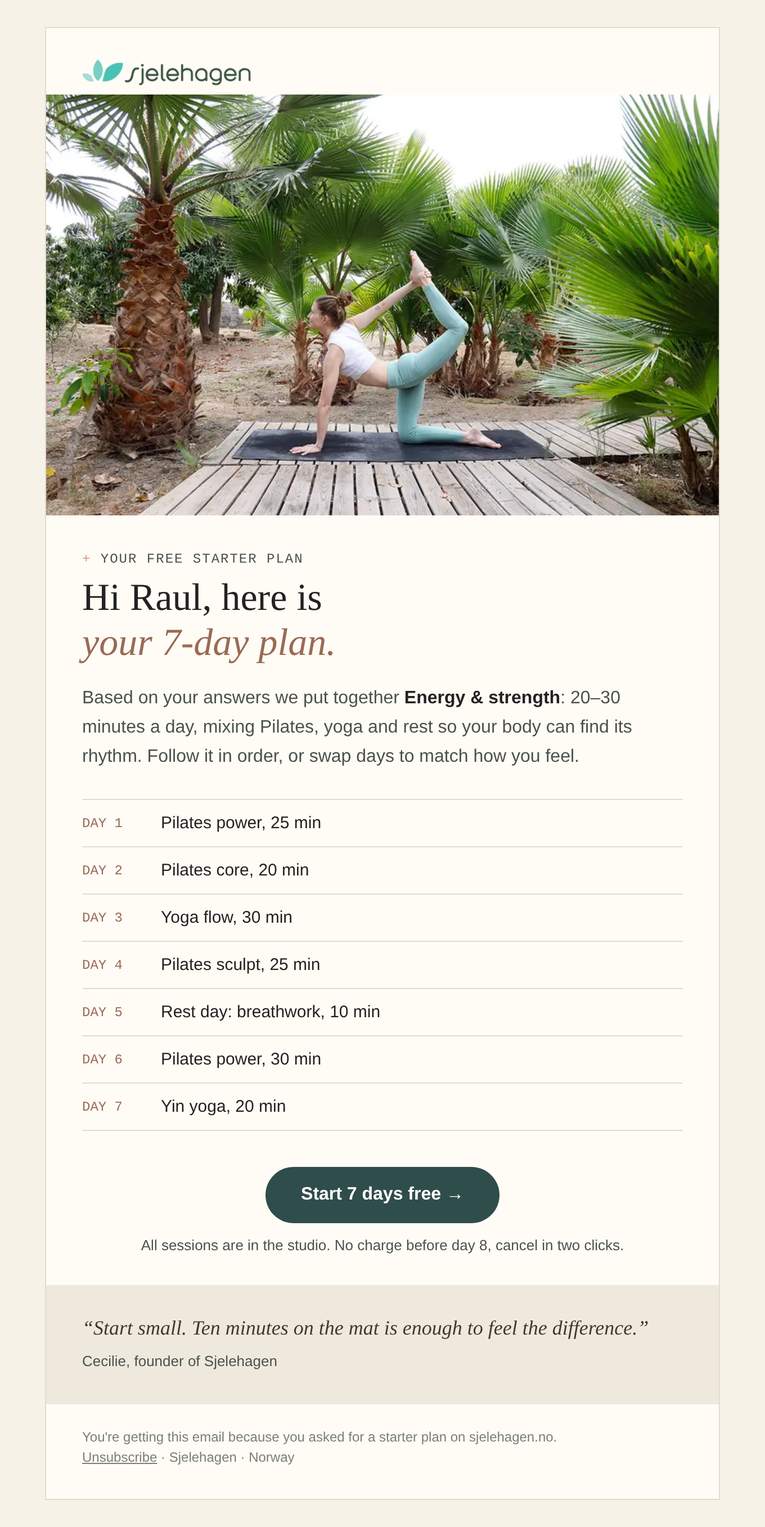
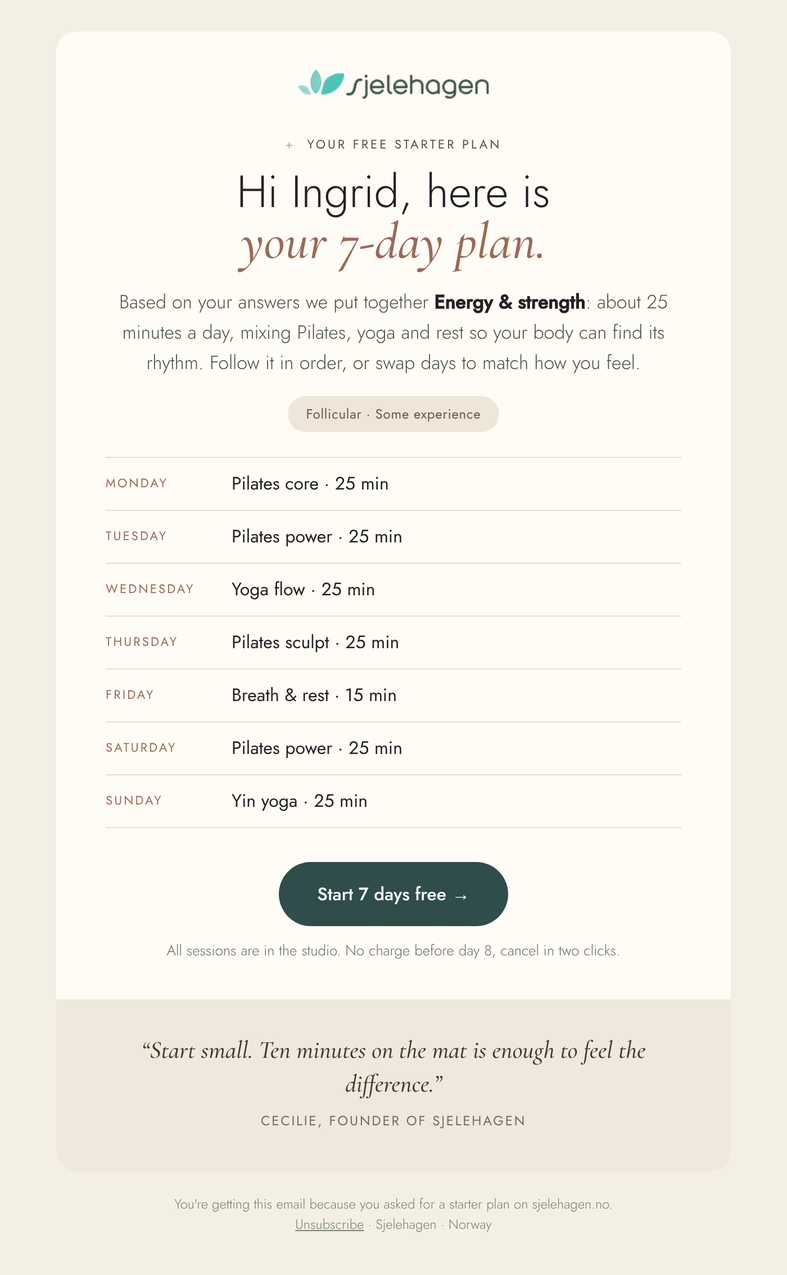
Quiz form sends to Klaviyo (new list + flow); Klaviyo-ready starter-plan email templates
Claude-Session: https://claude.ai/code/session_01FcRqLvtjMj2oLVJ5MNzpzb

Changed region(s): [[0.0618, 0.0309, 0.9574, 0.8959], [0.1235, 0.9267, 0.7412, 0.9885], [0.7412, 0.865, 0.8029, 0.8959]]

diff --git a/website/email/starter-plan.no.html b/website/email/starter-plan.no.html
@@ -1,67 +1,28 @@
 <!doctype html>
-<html lang="nb">
-<head>
-<meta charset="utf-8">
-<meta name="viewport" content="width=device-width,initial-scale=1">
-<meta name="x-apple-disable-message-reformatting">
-<title>Din 7-dagers startplan</title>
-<!--
-  Sjelehagen: startplan-e-post, norsk versjon (sendes når noen fullfører quizen).
-  Merge fields to map in your email tool (Klaviyo / Mailchimp / MailerLite / Brevo):
-    {{first_name}}   first name from the form (reserve: "der")
-    {{plan_name}}    Energi & kraft | Ro & flyt | Syklisk balanse | Myk restart
-    {{session_length}} 10–15 | 20–30 | 45+ minutes
-    {{day1}} … {{day7}}  session for each day, e.g. "Pilates core, 20 min"
-  Images must be hosted on a public URL; replace https://YOUR-SITE/ below.
--->
-</head>
-<body style="margin:0;padding:0;background:#f7f2e7;">
-<div style="display:none;max-height:0;overflow:hidden;opacity:0;">Din personlige 7-dagers plan er her. Start når du er klar.</div>
-<table role="presentation" width="100%" cellpadding="0" cellspacing="0" style="background:#f7f2e7;">
-<tr><td align="center" style="padding:24px 12px;">
-  <table role="presentation" width="600" cellpadding="0" cellspacing="0" style="width:100%;max-width:600px;background:#fffcf5;border:1px solid #e2dccd;">
-    <tr><td style="padding:28px 32px 8px;">
-      <img src="https://YOUR-SITE/website/email/img/logo.png" width="150" alt="Sjelehagen" style="display:block;width:150px;height:auto;border:0;">
-    </td></tr>
-    <tr><td style="padding:0;">
-      <img src="https://YOUR-SITE/website/email/img/hero.jpg" width="600" alt="Cecilie på matten i palmehagen" style="display:block;width:100%;height:auto;border:0;">
-    </td></tr>
-    <tr><td style="padding:32px 32px 8px;font-family:'DM Mono',Menlo,monospace;font-size:12px;letter-spacing:1px;text-transform:uppercase;color:#4b524d;">
-      <span style="color:#d9a07c;">+</span> Din gratis startplan
-    </td></tr>
-    <tr><td style="padding:0 32px;font-family:Georgia,'Times New Roman',serif;font-size:34px;line-height:40px;color:#222222;">
-      Hei {{first_name}}, her er<br><em style="color:#9a6a55;">din 7-dagers plan.</em>
-    </td></tr>
-    <tr><td style="padding:16px 32px 8px;font-family:Arial,Helvetica,sans-serif;font-size:16px;line-height:26px;color:#4b524d;">
-      Basert på svarene dine har vi satt sammen <strong style="color:#222222;">{{plan_name}}</strong>: {{session_length}} om dagen, med pilates, yoga og hvile så kroppen finner sin rytme. Følg planen i rekkefølge, eller bytt dager etter dagsformen.
-    </td></tr>
-    <tr><td style="padding:16px 32px;">
-      <table role="presentation" width="100%" cellpadding="0" cellspacing="0" style="border-top:1px solid #e2dccd;font-family:Arial,Helvetica,sans-serif;font-size:15px;color:#222222;">
-        <tr><td width="70" style="padding:12px 0;border-bottom:1px solid #e2dccd;font-family:'DM Mono',Menlo,monospace;font-size:12px;color:#9a6a55;">DAG 1</td><td style="padding:12px 0;border-bottom:1px solid #e2dccd;">{{day1}}</td></tr>
-        <tr><td style="padding:12px 0;border-bottom:1px solid #e2dccd;font-family:'DM Mono',Menlo,monospace;font-size:12px;color:#9a6a55;">DAG 2</td><td style="padding:12px 0;border-bottom:1px solid #e2dccd;">{{day2}}</td></tr>
-        <tr><td style="padding:12px 0;border-bottom:1px solid #e2dccd;font-family:'DM Mono',Menlo,monospace;font-size:12px;color:#9a6a55;">DAG 3</td><td style="padding:12px 0;border-bottom:1px solid #e2dccd;">{{day3}}</td></tr>
-        <tr><td style="padding:12px 0;border-bottom:1px solid #e2dccd;font-family:'DM Mono',Menlo,monospace;font-size:12px;color:#9a6a55;">DAG 4</td><td style="padding:12px 0;border-bottom:1px solid #e2dccd;">{{day4}}</td></tr>
-        <tr><td style="padding:12px 0;border-bottom:1px solid #e2dccd;font-family:'DM Mono',Menlo,monospace;font-size:12px;color:#9a6a55;">DAG 5</td><td style="padding:12px 0;border-bottom:1px solid #e2dccd;">{{day5}}</td></tr>
-        <tr><td style="padding:12px 0;border-bottom:1px solid #e2dccd;font-family:'DM Mono',Menlo,monospace;font-size:12px;color:#9a6a55;">DAG 6</td><td style="padding:12px 0;border-bottom:1px solid #e2dccd;">{{day6}}</td></tr>
-        <tr><td style="padding:12px 0;border-bottom:1px solid #e2dccd;font-family:'DM Mono',Menlo,monospace;font-size:12px;color:#9a6a55;">DAG 7</td><td style="padding:12px 0;border-bottom:1px solid #e2dccd;">{{day7}}</td></tr>
-      </table>
-    </td></tr>
-    <tr><td align="center" style="padding:16px 32px 8px;">
-      <a href="https://studio.sjelehagen.no/register" style="display:inline-block;background:#2f4d4a;color:#ffffff;font-family:Arial,Helvetica,sans-serif;font-size:16px;font-weight:bold;text-decoration:none;padding:16px 32px;border-radius:999px;">Start 7 dager gratis &rarr;</a>
-    </td></tr>
-    <tr><td align="center" style="padding:4px 32px 28px;font-family:Arial,Helvetica,sans-serif;font-size:13px;color:#4b524d;">
-      Alle øktene finner du i studioet. Ingen trekk før dag 8, avslutt med to klikk.
-    </td></tr>
-    <tr><td style="padding:24px 32px;background:#efe9dd;font-family:Georgia,'Times New Roman',serif;font-size:18px;line-height:28px;color:#43382a;">
-      <em>«Start i det små. Ti minutter på matten er nok til å kjenne forskjellen.»</em><br>
-      <span style="font-family:Arial,Helvetica,sans-serif;font-size:13px;color:#4b524d;">Cecilie, grunnlegger av Sjelehagen</span>
-    </td></tr>
-    <tr><td style="padding:20px 32px 28px;font-family:Arial,Helvetica,sans-serif;font-size:12px;line-height:18px;color:#7a7f78;">
-      Du får denne e-posten fordi du ba om en startplan på sjelehagen.no.<br>
-      <a href="{{unsubscribe_url}}" style="color:#7a7f78;">Meld deg av</a> · Sjelehagen · Norge
-    </td></tr>
-  </table>
-</td></tr>
+<html lang="nb"><head><meta charset="utf-8"><meta name="viewport" content="width=device-width,initial-scale=1"><meta name="x-apple-disable-message-reformatting"><title>Din 7-dagers startplan</title>
+<link href="https://fonts.googleapis.com/css2?family=Cormorant+Garamond:ital,wght@0,500;1,500&family=Jost:wght@300;400;500&display=swap" rel="stylesheet">
+<style>@media (max-width:620px){.px{padding-left:24px!important;padding-right:24px!important}.h1{font-size:34px!important;line-height:38px!important}}</style></head>
+<body style="margin:0;padding:0;background:#f4efe4;">
+<div style="display:none;max-height:0;overflow:hidden;opacity:0;">Din personlige 7-dagersplan er klar. Start når du vil.</div>
+<table role="presentation" width="100%" cellpadding="0" cellspacing="0" style="background:#f4efe4;"><tr><td align="center" style="padding:28px 12px;">
+<table role="presentation" width="600" cellpadding="0" cellspacing="0" style="width:100%;max-width:600px;background:#fffcf6;border-radius:18px;">
+<tr><td class="px" align="center" style="padding:34px 44px 6px;"><img src="https://cdn.klaviyomail.com/company/WXxMVT/images/7048cb30-c973-4501-bad0-33ca347614f9.png" width="170" alt="Sjelehagen" style="display:block;width:170px;height:auto;border:0;"></td></tr>
+<tr><td class="px" align="center" style="padding:26px 44px 0;font-family:'Jost',Helvetica,Arial,sans-serif;font-size:11px;letter-spacing:2px;text-transform:uppercase;color:#4b524d;"><span style="color:#d9a07c;">+</span>&nbsp; Din gratis startplan</td></tr>
+<tr><td class="px h1" align="center" style="padding:12px 44px 0;font-family:'Jost',Helvetica,Arial,sans-serif;font-weight:300;font-size:40px;line-height:44px;color:#222222;">Hei{% if first_name %} {{ first_name }}{% endif %}, her er<br><em style="font-family:'Cormorant Garamond',Georgia,'Times New Roman',serif;font-style:italic;font-weight:500;font-size:46px;color:#9a6a55;">din 7-dagersplan.</em></td></tr>
+<tr><td class="px" align="center" style="padding:18px 52px 6px;font-family:'Jost',Helvetica,Arial,sans-serif;font-weight:300;font-size:17px;line-height:27px;color:#4b524d;">Basert på svarene dine har vi satt sammen <strong style="color:#222222;font-weight:600;">{{ person|lookup:'sh_plan_name'|default:'planen din' }}</strong>: rundt {{ person|lookup:'sh_minutes'|default:'20' }} minutter om dagen, med pilates, yoga og ro, så kroppen finner rytmen sin. Følg den i rekkefølge, eller bytt dager etter hvordan du har det.</td></tr>
+<tr><td class="px" align="center" style="padding:10px 44px 0;"><span style="display:inline-block;background:#efe6da;border-radius:999px;padding:7px 16px;font-family:'Jost',Helvetica,Arial,sans-serif;font-size:12px;letter-spacing:.4px;color:#6d5446;">{{ person|lookup:'sh_phase'|default:'' }}{% if person|lookup:'sh_phase' %} · {% endif %}{{ person|lookup:'sh_level'|default:'' }}</span></td></tr>
+<tr><td class="px" style="padding:22px 44px 8px;"><table role="presentation" width="100%" cellpadding="0" cellspacing="0" style="border-top:1px solid #e6dfd1;">
+<tr><td width="112" valign="top" style="padding:14px 0;border-bottom:1px solid #e6dfd1;font-family:'Jost',Helvetica,Arial,sans-serif;font-size:11px;letter-spacing:1.6px;text-transform:uppercase;color:#9a6a55;">Mandag</td><td valign="top" style="padding:12px 0;border-bottom:1px solid #e6dfd1;font-family:'Jost',Helvetica,Arial,sans-serif;font-size:16px;line-height:22px;color:#222222;">{{ person|lookup:'sh_day1'|default:'—' }}</td></tr>
+<tr><td width="112" valign="top" style="padding:14px 0;border-bottom:1px solid #e6dfd1;font-family:'Jost',Helvetica,Arial,sans-serif;font-size:11px;letter-spacing:1.6px;text-transform:uppercase;color:#9a6a55;">Tirsdag</td><td valign="top" style="padding:12px 0;border-bottom:1px solid #e6dfd1;font-family:'Jost',Helvetica,Arial,sans-serif;font-size:16px;line-height:22px;color:#222222;">{{ person|lookup:'sh_day2'|default:'—' }}</td></tr>
+<tr><td width="112" valign="top" style="padding:14px 0;border-bottom:1px solid #e6dfd1;font-family:'Jost',Helvetica,Arial,sans-serif;font-size:11px;letter-spacing:1.6px;text-transform:uppercase;color:#9a6a55;">Onsdag</td><td valign="top" style="padding:12px 0;border-bottom:1px solid #e6dfd1;font-family:'Jost',Helvetica,Arial,sans-serif;font-size:16px;line-height:22px;color:#222222;">{{ person|lookup:'sh_day3'|default:'—' }}</td></tr>
+<tr><td width="112" valign="top" style="padding:14px 0;border-bottom:1px solid #e6dfd1;font-family:'Jost',Helvetica,Arial,sans-serif;font-size:11px;letter-spacing:1.6px;text-transform:uppercase;color:#9a6a55;">Torsdag</td><td valign="top" style="padding:12px 0;border-bottom:1px solid #e6dfd1;font-family:'Jost',Helvetica,Arial,sans-serif;font-size:16px;line-height:22px;color:#222222;">{{ person|lookup:'sh_day4'|default:'—' }}</td></tr>
+<tr><td width="112" valign="top" style="padding:14px 0;border-bottom:1px solid #e6dfd1;font-family:'Jost',Helvetica,Arial,sans-serif;font-size:11px;letter-spacing:1.6px;text-transform:uppercase;color:#9a6a55;">Fredag</td><td valign="top" style="padding:12px 0;border-bottom:1px solid #e6dfd1;font-family:'Jost',Helvetica,Arial,sans-serif;font-size:16px;line-height:22px;color:#222222;">{{ person|lookup:'sh_day5'|default:'—' }}</td></tr>
+<tr><td width="112" valign="top" style="padding:14px 0;border-bottom:1px solid #e6dfd1;font-family:'Jost',Helvetica,Arial,sans-serif;font-size:11px;letter-spacing:1.6px;text-transform:uppercase;color:#9a6a55;">Lørdag</td><td valign="top" style="padding:12px 0;border-bottom:1px solid #e6dfd1;font-family:'Jost',Helvetica,Arial,sans-serif;font-size:16px;line-height:22px;color:#222222;">{{ person|lookup:'sh_day6'|default:'—' }}</td></tr>
+<tr><td width="112" valign="top" style="padding:14px 0;border-bottom:1px solid #e6dfd1;font-family:'Jost',Helvetica,Arial,sans-serif;font-size:11px;letter-spacing:1.6px;text-transform:uppercase;color:#9a6a55;">Søndag</td><td valign="top" style="padding:12px 0;border-bottom:1px solid #e6dfd1;font-family:'Jost',Helvetica,Arial,sans-serif;font-size:16px;line-height:22px;color:#222222;">{{ person|lookup:'sh_day7'|default:'—' }}</td></tr>
+</table></td></tr>
+<tr><td class="px" align="center" style="padding:22px 44px 6px;"><a href="https://studio.sjelehagen.no/register" style="display:inline-block;background:#2f4d4a;color:#ffffff;font-family:'Jost',Helvetica,Arial,sans-serif;font-size:16px;font-weight:500;text-decoration:none;padding:17px 34px;border-radius:999px;">Start 7 dager gratis &rarr;</a></td></tr>
+<tr><td class="px" align="center" style="padding:6px 44px 34px;font-family:'Jost',Helvetica,Arial,sans-serif;font-weight:300;font-size:13px;line-height:19px;color:#6b706b;">Alle øktene finner du i studioet. Ingen betaling før dag 8, avslutt med to klikk.</td></tr>
+<tr><td class="px" align="center" style="padding:30px 52px;background:#efe9dd;border-radius:0 0 18px 18px;font-family:'Cormorant Garamond',Georgia,'Times New Roman',serif;font-style:italic;font-weight:500;font-size:22px;line-height:30px;color:#43382a;">«Start i det små. Ti minutter på matten er nok til å kjenne forskjell.»<br><span style="font-family:'Jost',Helvetica,Arial,sans-serif;font-style:normal;font-weight:400;font-size:12px;letter-spacing:1.4px;text-transform:uppercase;color:#7a6a5c;">Cecilie, grunnlegger av Sjelehagen</span></td></tr>
 </table>
-</body>
-</html>
+<table role="presentation" width="600" cellpadding="0" cellspacing="0" style="width:100%;max-width:600px;"><tr><td align="center" style="padding:20px 24px 8px;font-family:'Jost',Helvetica,Arial,sans-serif;font-weight:300;font-size:12px;line-height:18px;color:#7a7f78;">Du får denne e-posten fordi du ba om en startplan på sjelehagen.no.<br>{% unsubscribe 'Meld deg av' %} · {{ organization.name }} · {{ organization.full_address }}</td></tr></table>
+</td></tr></table></body></html>

diff --git a/website/email/starter-plan.en.html b/website/email/starter-plan.en.html
@@ -1,67 +1,28 @@
 <!doctype html>
-<html lang="en">
-<head>
-<meta charset="utf-8">
-<meta name="viewport" content="width=device-width,initial-scale=1">
-<meta name="x-apple-disable-message-reformatting">
-<title>Your 7-day starter plan</title>
-<!--
-  Sjelehagen: starter-plan email (sent when someone finishes the quiz on the landing page).
-  Merge fields to map in your email tool (Klaviyo / Mailchimp / MailerLite / Brevo):
-    {{first_name}}   first name from the form (fallback: "there")
-    {{plan_name}}    Energy & strength | Calm & flow | Cyclical balance | Gentle restart
-    {{session_length}} 10–15 | 20–30 | 45+ minutes
-    {{day1}} … {{day7}}  session for each day, e.g. "Pilates core, 20 min"
-  Images must be hosted on a public URL; replace https://YOUR-SITE/ below.
--->
-</head>
-<body style="margin:0;padding:0;background:#f7f2e7;">
+<html lang="en"><head><meta charset="utf-8"><meta name="viewport" content="width=device-width,initial-scale=1"><meta name="x-apple-disable-message-reformatting"><title>Your 7-day starter plan</title>
+<link href="https://fonts.googleapis.com/css2?family=Cormorant+Garamond:ital,wght@0,500;1,500&family=Jost:wght@300;400;500&display=swap" rel="stylesheet">
+<style>@media (max-width:620px){.px{padding-left:24px!important;padding-right:24px!important}.h1{font-size:34px!important;line-height:38px!important}}</style></head>
+<body style="margin:0;padding:0;background:#f4efe4;">
 <div style="display:none;max-height:0;overflow:hidden;opacity:0;">Your personal 7-day plan is here. Start whenever you're ready.</div>
-<table role="presentation" width="100%" cellpadding="0" cellspacing="0" style="background:#f7f2e7;">
-<tr><td align="center" style="padding:24px 12px;">
-  <table role="presentation" width="600" cellpadding="0" cellspacing="0" style="width:100%;max-width:600px;background:#fffcf5;border:1px solid #e2dccd;">
-    <tr><td style="padding:28px 32px 8px;">
-      <img src="https://YOUR-SITE/website/email/img/logo.png" width="150" alt="Sjelehagen" style="display:block;width:150px;height:auto;border:0;">
-    </td></tr>
-    <tr><td style="padding:0;">
-      <img src="https://YOUR-SITE/website/email/img/hero.jpg" width="600" alt="Cecilie on the mat in the palm garden" style="display:block;width:100%;height:auto;border:0;">
-    </td></tr>
-    <tr><td style="padding:32px 32px 8px;font-family:'DM Mono',Menlo,monospace;font-size:12px;letter-spacing:1px;text-transform:uppercase;color:#4b524d;">
-      <span style="color:#d9a07c;">+</span> Your free starter plan
-    </td></tr>
-    <tr><td style="padding:0 32px;font-family:Georgia,'Times New Roman',serif;font-size:34px;line-height:40px;color:#222222;">
-      Hi {{first_name}}, here is<br><em style="color:#9a6a55;">your 7-day plan.</em>
-    </td></tr>
-    <tr><td style="padding:16px 32px 8px;font-family:Arial,Helvetica,sans-serif;font-size:16px;line-height:26px;color:#4b524d;">
-      Based on your answers we put together <strong style="color:#222222;">{{plan_name}}</strong>: {{session_length}} a day, mixing Pilates, yoga and rest so your body can find its rhythm. Follow it in order, or swap days to match how you feel.
-    </td></tr>
-    <tr><td style="padding:16px 32px;">
-      <table role="presentation" width="100%" cellpadding="0" cellspacing="0" style="border-top:1px solid #e2dccd;font-family:Arial,Helvetica,sans-serif;font-size:15px;color:#222222;">
-        <tr><td width="70" style="padding:12px 0;border-bottom:1px solid #e2dccd;font-family:'DM Mono',Menlo,monospace;font-size:12px;color:#9a6a55;">DAY 1</td><td style="padding:12px 0;border-bottom:1px solid #e2dccd;">{{day1}}</td></tr>
-        <tr><td style="padding:12px 0;border-bottom:1px solid #e2dccd;font-family:'DM Mono',Menlo,monospace;font-size:12px;color:#9a6a55;">DAY 2</td><td style="padding:12px 0;border-bottom:1px solid #e2dccd;">{{day2}}</td></tr>
-        <tr><td style="padding:12px 0;border-bottom:1px solid #e2dccd;font-family:'DM Mono',Menlo,monospace;font-size:12px;color:#9a6a55;">DAY 3</td><td style="padding:12px 0;border-bottom:1px solid #e2dccd;">{{day3}}</td></tr>
-        <tr><td style="padding:12px 0;border-bottom:1px solid #e2dccd;font-family:'DM Mono',Menlo,monospace;font-size:12px;color:#9a6a55;">DAY 4</td><td style="padding:12px 0;border-bottom:1px solid #e2dccd;">{{day4}}</td></tr>
-        <tr><td style="padding:12px 0;border-bottom:1px solid #e2dccd;font-family:'DM Mono',Menlo,monospace;font-size:12px;color:#9a6a55;">DAY 5</td><td style="padding:12px 0;border-bottom:1px solid #e2dccd;">{{day5}}</td></tr>
-        <tr><td style="padding:12px 0;border-bottom:1px solid #e2dccd;font-family:'DM Mono',Menlo,monospace;font-size:12px;color:#9a6a55;">DAY 6</td><td style="padding:12px 0;border-bottom:1px solid #e2dccd;">{{day6}}</td></tr>
-        <tr><td style="padding:12px 0;border-bottom:1px solid #e2dccd;font-family:'DM Mono',Menlo,monospace;font-size:12px;color:#9a6a55;">DAY 7</td><td style="padding:12px 0;border-bottom:1px solid #e2dccd;">{{day7}}</td></tr>
-      </table>
-    </td></tr>
-    <tr><td align="center" style="padding:16px 32px 8px;">
-      <a href="https://studio.sjelehagen.no/register" style="display:inline-block;background:#2f4d4a;color:#ffffff;font-family:Arial,Helvetica,sans-serif;font-size:16px;font-weight:bold;text-decoration:none;padding:16px 32px;border-radius:999px;">Start 7 days free &rarr;</a>
-    </td></tr>
-    <tr><td align="center" style="padding:4px 32px 28px;font-family:Arial,Helvetica,sans-serif;font-size:13px;color:#4b524d;">
-      All sessions are in the studio. No charge before day 8, cancel in two clicks.
-    </td></tr>
-    <tr><td style="padding:24px 32px;background:#efe9dd;font-family:Georgia,'Times New Roman',serif;font-size:18px;line-height:28px;color:#43382a;">
-      <em>“Start small. Ten minutes on the mat is enough to feel the difference.”</em><br>
-      <span style="font-family:Arial,Helvetica,sans-serif;font-size:13px;color:#4b524d;">Cecilie, founder of Sjelehagen</span>
-    </td></tr>
-    <tr><td style="padding:20px 32px 28px;font-family:Arial,Helvetica,sans-serif;font-size:12px;line-height:18px;color:#7a7f78;">
-      You're getting this email because you asked for a starter plan on sjelehagen.no.<br>
-      <a href="{{unsubscribe_url}}" style="color:#7a7f78;">Unsubscribe</a> · Sjelehagen · Norway
-    </td></tr>
-  </table>
-</td></tr>
+<table role="presentation" width="100%" cellpadding="0" cellspacing="0" style="background:#f4efe4;"><tr><td align="center" style="padding:28px 12px;">
+<table role="presentation" width="600" cellpadding="0" cellspacing="0" style="width:100%;max-width:600px;background:#fffcf6;border-radius:18px;">
+<tr><td class="px" align="center" style="padding:34px 44px 6px;"><img src="https://cdn.klaviyomail.com/company/WXxMVT/images/7048cb30-c973-4501-bad0-33ca347614f9.png" width="170" alt="Sjelehagen" style="display:block;width:170px;height:auto;border:0;"></td></tr>
+<tr><td class="px" align="center" style="padding:26px 44px 0;font-family:'Jost',Helvetica,Arial,sans-serif;font-size:11px;letter-spacing:2px;text-transform:uppercase;color:#4b524d;"><span style="color:#d9a07c;">+</span>&nbsp; Your free starter plan</td></tr>
+<tr><td class="px h1" align="center" style="padding:12px 44px 0;font-family:'Jost',Helvetica,Arial,sans-serif;font-weight:300;font-size:40px;line-height:44px;color:#222222;">Hi{% if first_name %} {{ first_name }}{% endif %}, here is<br><em style="font-family:'Cormorant Garamond',Georgia,'Times New Roman',serif;font-style:italic;font-weight:500;font-size:46px;color:#9a6a55;">your 7-day plan.</em></td></tr>
+<tr><td class="px" align="center" style="padding:18px 52px 6px;font-family:'Jost',Helvetica,Arial,sans-serif;font-weight:300;font-size:17px;line-height:27px;color:#4b524d;">Based on your answers we put together <strong style="color:#222222;font-weight:600;">{{ person|lookup:'sh_plan_name'|default:'your plan' }}</strong>: about {{ person|lookup:'sh_minutes'|default:'20' }} minutes a day, mixing Pilates, yoga and rest so your body can find its rhythm. Follow it in order, or swap days to match how you feel.</td></tr>
+<tr><td class="px" align="center" style="padding:10px 44px 0;"><span style="display:inline-block;background:#efe6da;border-radius:999px;padding:7px 16px;font-family:'Jost',Helvetica,Arial,sans-serif;font-size:12px;letter-spacing:.4px;color:#6d5446;">{{ person|lookup:'sh_phase'|default:'' }}{% if person|lookup:'sh_phase' %} · {% endif %}{{ person|lookup:'sh_level'|default:'' }}</span></td></tr>
+<tr><td class="px" style="padding:22px 44px 8px;"><table role="presentation" width="100%" cellpadding="0" cellspacing="0" style="border-top:1px solid #e6dfd1;">
+<tr><td width="112" valign="top" style="padding:14px 0;border-bottom:1px solid #e6dfd1;font-family:'Jost',Helvetica,Arial,sans-serif;font-size:11px;letter-spacing:1.6px;text-transform:uppercase;color:#9a6a55;">Monday</td><td valign="top" style="padding:12px 0;border-bottom:1px solid #e6dfd1;font-family:'Jost',Helvetica,Arial,sans-serif;font-size:16px;line-height:22px;color:#222222;">{{ person|lookup:'sh_day1'|default:'—' }}</td></tr>
+<tr><td width="112" valign="top" style="padding:14px 0;border-bottom:1px solid #e6dfd1;font-family:'Jost',Helvetica,Arial,sans-serif;font-size:11px;letter-spacing:1.6px;text-transform:uppercase;color:#9a6a55;">Tuesday</td><td valign="top" style="padding:12px 0;border-bottom:1px solid #e6dfd1;font-family:'Jost',Helvetica,Arial,sans-serif;font-size:16px;line-height:22px;color:#222222;">{{ person|lookup:'sh_day2'|default:'—' }}</td></tr>
+<tr><td width="112" valign="top" style="padding:14px 0;border-bottom:1px solid #e6dfd1;font-family:'Jost',Helvetica,Arial,sans-serif;font-size:11px;letter-spacing:1.6px;text-transform:uppercase;color:#9a6a55;">Wednesday</td><td valign="top" style="padding:12px 0;border-bottom:1px solid #e6dfd1;font-family:'Jost',Helvetica,Arial,sans-serif;font-size:16px;line-height:22px;color:#222222;">{{ person|lookup:'sh_day3'|default:'—' }}</td></tr>
+<tr><td width="112" valign="top" style="padding:14px 0;border-bottom:1px solid #e6dfd1;font-family:'Jost',Helvetica,Arial,sans-serif;font-size:11px;letter-spacing:1.6px;text-transform:uppercase;color:#9a6a55;">Thursday</td><td valign="top" style="padding:12px 0;border-bottom:1px solid #e6dfd1;font-family:'Jost',Helvetica,Arial,sans-serif;font-size:16px;line-height:22px;color:#222222;">{{ person|lookup:'sh_day4'|default:'—' }}</td></tr>
+<tr><td width="112" valign="top" style="padding:14px 0;border-bottom:1px solid #e6dfd1;font-family:'Jost',Helvetica,Arial,sans-serif;font-size:11px;letter-spacing:1.6px;text-transform:uppercase;color:#9a6a55;">Friday</td><td valign="top" style="padding:12px 0;border-bottom:1px solid #e6dfd1;font-family:'Jost',Helvetica,Arial,sans-serif;font-size:16px;line-height:22px;color:#222222;">{{ person|lookup:'sh_day5'|default:'—' }}</td></tr>
+<tr><td width="112" valign="top" style="padding:14px 0;border-bottom:1px solid #e6dfd1;font-family:'Jost',Helvetica,Arial,sans-serif;font-size:11px;letter-spacing:1.6px;text-transform:uppercase;color:#9a6a55;">Saturday</td><td valign="top" style="padding:12px 0;border-bottom:1px solid #e6dfd1;font-family:'Jost',Helvetica,Arial,sans-serif;font-size:16px;line-height:22px;color:#222222;">{{ person|lookup:'sh_day6'|default:'—' }}</td></tr>
+<tr><td width="112" valign="top" style="padding:14px 0;border-bottom:1px solid #e6dfd1;font-family:'Jost',Helvetica,Arial,sans-serif;font-size:11px;letter-spacing:1.6px;text-transform:uppercase;color:#9a6a55;">Sunday</td><td valign="top" style="padding:12px 0;border-bottom:1px solid #e6dfd1;font-family:'Jost',Helvetica,Arial,sans-serif;font-size:16px;line-height:22px;color:#222222;">{{ person|lookup:'sh_day7'|default:'—' }}</td></tr>
+</table></td></tr>
+<tr><td class="px" align="center" style="padding:22px 44px 6px;"><a href="https://studio.sjelehagen.no/register" style="display:inline-block;background:#2f4d4a;color:#ffffff;font-family:'Jost',Helvetica,Arial,sans-serif;font-size:16px;font-weight:500;text-decoration:none;padding:17px 34px;border-radius:999px;">Start 7 days free &rarr;</a></td></tr>
+<tr><td class="px" align="center" style="padding:6px 44px 34px;font-family:'Jost',Helvetica,Arial,sans-serif;font-weight:300;font-size:13px;line-height:19px;color:#6b706b;">All sessions are in the studio. No charge before day 8, cancel in two clicks.</td></tr>
+<tr><td class="px" align="center" style="padding:30px 52px;background:#efe9dd;border-radius:0 0 18px 18px;font-family:'Cormorant Garamond',Georgia,'Times New Roman',serif;font-style:italic;font-weight:500;font-size:22px;line-height:30px;color:#43382a;">“Start small. Ten minutes on the mat is enough to feel the difference.”<br><span style="font-family:'Jost',Helvetica,Arial,sans-serif;font-style:normal;font-weight:400;font-size:12px;letter-spacing:1.4px;text-transform:uppercase;color:#7a6a5c;">Cecilie, founder of Sjelehagen</span></td></tr>
 </table>
-</body>
-</html>
+<table role="presentation" width="600" cellpadding="0" cellspacing="0" style="width:100%;max-width:600px;"><tr><td align="center" style="padding:20px 24px 8px;font-family:'Jost',Helvetica,Arial,sans-serif;font-weight:300;font-size:12px;line-height:18px;color:#7a7f78;">You're getting this email because you asked for a starter plan on sjelehagen.no.<br>{% unsubscribe 'Unsubscribe' %} · {{ organization.name }} · {{ organization.full_address }}</td></tr></table>
+</td></tr></table></body></html>

diff --git a/website/index.html b/website/index.html
@@ -1268,6 +1268,20 @@ h1 em,h2 em,h3 em{font-size:1.1em;font-weight:500!important;letter-spacing:-.005
   const reduce = matchMedia('(prefers-reduced-motion: reduce)').matches;
   const $ = (s, r=document) => r.querySelector(s);
 
+  /* Klaviyo: website quiz -> list "Nettside – 7-dagers startplan (quiz)" -> flow sends the plan email */
+  const KL = {company:'WXxMVT', list:'VBGurR', rev:'2024-10-15'};
+  const klSubscribe = async (email, first, props) => {
+    const h = {'content-type':'application/vnd.api+json', accept:'application/vnd.api+json', revision:KL.rev}, base = 'https://a.klaviyo.com/client/';
+    const attrs = {email, properties: props}; if (first) attrs.first_name = first;
+    try {
+      await fetch(base + 'profiles/?company_id=' + KL.company, {method:'POST', headers:h, body: JSON.stringify({data:{type:'profile', attributes: attrs}})});
+      const r = await fetch(base + 'subscriptions/?company_id=' + KL.company, {method:'POST', headers:h, body: JSON.stringify({data:{type:'subscription',
+        attributes:{custom_source:'Website quiz (' + props.sh_lang + ')', profile:{data:{type:'profile', attributes:{email, subscriptions:{email:{marketing:{consent:'SUBSCRIBED'}}}}}}},
+        relationships:{list:{data:{type:'list', id:KL.list}}}}})});
+      return r.ok;
+    } catch (e) { return null; } /* network blocked (e.g. preview): show success anyway */
+  };
+
   /* Header + sticky CTA */
   const top = $('#top'), sticky = $('#sticky'), hero = $('.hero'), priser = $('#priser'), finalBox = $('.final');
   let heroOut = false, endIn = false;
@@ -1527,10 +1541,16 @@ h1 em,h2 em,h3 em{font-size:1.1em;font-weight:500!important;letter-spacing:-.005
         if (!/^[^\s@]+@[^\s@]+\.[^\s@]+$/.test(em)) { err.textContent = 'Enter a valid email address, for example name@email.com.'; $('#lf-email').focus(); return; }
         if (!$('#lf-ok').checked) { err.textContent = 'Tick the consent box so we can send you the plan.'; return; }
         const n = $('#lf-name').value.trim();
-        bar.style.width = '100%';
-        body.innerHTML = `<div class="success swap"><div class="check"><svg width="36" height="36" viewBox="0 0 24 24"><path fill="none" stroke="currentColor" stroke-width="2.4" stroke-linecap="round" stroke-linejoin="round" d="M5 12.5l4.5 4.5L19 7.5"/></svg></div>
-          <h3>Thank you${n ? ', ' + n.replace(/[<>&"]/g,'') : ''}!</h3><p class="lede">The “${p.name}” plan is on its way to ${em.replace(/[<>&"]/g,'')}. Want to start today?</p>
-          <a class="btn btn-cta" href="https://studio.sjelehagen.no/register">Start 7 days free <svg class="arr" width="18" height="18"><use href="#arrow"/></svg></a></div>`;
+        const btn = $('#leadForm [type=submit]'); btn.disabled = true; err.textContent = '';
+        const props = {sh_lang:'en', sh_plan_name:p.name, sh_minutes:String(mins), sh_level:ans.level, sh_goal:ans.goal, sh_phase:(phases[cur] || {}).name || ''};
+        p.week.forEach((t, i) => { const arr = CL[t], c = arr[i % arr.length], m = t === 'R' ? Math.max(10, Math.round(mins * .6)) : mins; props['sh_day' + (i + 1)] = c[0] + ' · ' + m + ' min'; });
+        klSubscribe(em, n, props).then(ok => {
+          if (ok === false) { btn.disabled = false; err.textContent = 'Something went wrong. Please try again in a moment.'; return; }
+          bar.style.width = '100%';
+          body.innerHTML = `<div class="success swap"><div class="check"><svg width="36" height="36" viewBox="0 0 24 24"><path fill="none" stroke="currentColor" stroke-width="2.4" stroke-linecap="round" stroke-linejoin="round" d="M5 12.5l4.5 4.5L19 7.5"/></svg></div>
+            <h3>Thank you${n ? ', ' + n.replace(/[<>&"]/g,'') : ''}!</h3><p class="lede">The “${p.name}” plan is on its way to ${em.replace(/[<>&"]/g,'')}. Want to start today?</p>
+            <a class="btn btn-cta" href="https://studio.sjelehagen.no/register">Start 7 days free <svg class="arr" width="18" height="18"><use href="#arrow"/></svg></a></div>`;
+          });
       });
     }
   }

diff --git a/website/index.no.html b/website/index.no.html
@@ -1268,6 +1268,20 @@ h1 em,h2 em,h3 em{font-size:1.1em;font-weight:500!important;letter-spacing:-.005
   const reduce = matchMedia('(prefers-reduced-motion: reduce)').matches;
   const $ = (s, r=document) => r.querySelector(s);
 
+  /* Klaviyo: website quiz -> list "Nettside – 7-dagers startplan (quiz)" -> flow sends the plan email */
+  const KL = {company:'WXxMVT', list:'VBGurR', rev:'2024-10-15'};
+  const klSubscribe = async (email, first, props) => {
+    const h = {'content-type':'application/vnd.api+json', accept:'application/vnd.api+json', revision:KL.rev}, base = 'https://a.klaviyo.com/client/';
+    const attrs = {email, properties: props}; if (first) attrs.first_name = first;
+    try {
+      await fetch(base + 'profiles/?company_id=' + KL.company, {method:'POST', headers:h, body: JSON.stringify({data:{type:'profile', attributes: attrs}})});
+      const r = await fetch(base + 'subscriptions/?company_id=' + KL.company, {method:'POST', headers:h, body: JSON.stringify({data:{type:'subscription',
+        attributes:{custom_source:'Website quiz (' + props.sh_lang + ')', profile:{data:{type:'profile', attributes:{email, subscriptions:{email:{marketing:{consent:'SUBSCRIBED'}}}}}}},
+        relationships:{list:{data:{type:'list', id:KL.list}}}}})});
+      return r.ok;
+    } catch (e) { return null; } /* network blocked (e.g. preview): show success anyway */
+  };
+
   /* Header + sticky CTA */
   const top = $('#top'), sticky = $('#sticky'), hero = $('.hero'), priser = $('#priser'), finalBox = $('.final');
   let heroOut = false, endIn = false;
@@ -1527,10 +1541,16 @@ h1 em,h2 em,h3 em{font-size:1.1em;font-weight:500!important;letter-spacing:-.005
         if (!/^[^\s@]+@[^\s@]+\.[^\s@]+$/.test(em)) { err.textContent = 'Skriv inn en gyldig e-postadresse, for eksempel navn@epost.no.'; $('#lf-email').focus(); return; }
         if (!$('#lf-ok').checked) { err.textContent = 'Kryss av for samtykke, så vi kan sende deg planen.'; return; }
         const n = $('#lf-name').value.trim();
-        bar.style.width = '100%';
-        body.innerHTML = `<div class="success swap"><div class="check"><svg width="36" height="36" viewBox="0 0 24 24"><path fill="none" stroke="currentColor" stroke-width="2.4" stroke-linecap="round" stroke-linejoin="round" d="M5 12.5l4.5 4.5L19 7.5"/></svg></div>
-          <h3>Takk${n ? ', ' + n.replace(/[<>&"]/g,'') : ''}!</h3><p class="lede">Planen «${p.name}» er på vei til ${em.replace(/[<>&"]/g,'')}. Vil du starte allerede i dag?</p>
-          <a class="btn btn-cta" href="https://studio.sjelehagen.no/register">Start 7 dager gratis <svg class="arr" width="18" height="18"><use href="#arrow"/></svg></a></div>`;
+        const btn = $('#leadForm [type=submit]'); btn.disabled = true; err.textContent = '';
+        const props = {sh_lang:'no', sh_plan_name:p.name, sh_minutes:String(mins), sh_level:ans.level, sh_goal:ans.goal, sh_phase:(phases[cur] || {}).name || ''};
+        p.week.forEach((t, i) => { const arr = CL[t], c = arr[i % arr.length], m = t === 'R' ? Math.max(10, Math.round(mins * .6)) : mins; props['sh_day' + (i + 1)] = c[0] + ' · ' + m + ' min'; });
+        klSubscribe(em, n, props).then(ok => {
+          if (ok === false) { btn.disabled = false; err.textContent = 'Noe gikk galt. Prøv igjen om litt.'; return; }
+          bar.style.width = '100%';
+          body.innerHTML = `<div class="success swap"><div class="check"><svg width="36" height="36" viewBox="0 0 24 24"><path fill="none" stroke="currentColor" stroke-width="2.4" stroke-linecap="round" stroke-linejoin="round" d="M5 12.5l4.5 4.5L19 7.5"/></svg></div>
+            <h3>Takk${n ? ', ' + n.replace(/[<>&"]/g,'') : ''}!</h3><p class="lede">Planen «${p.name}» er på vei til ${em.replace(/[<>&"]/g,'')}. Vil du starte allerede i dag?</p>
+            <a class="btn btn-cta" href="https://studio.sjelehagen.no/register">Start 7 dager gratis <svg class="arr" width="18" height="18"><use href="#arrow"/></svg></a></div>`;
+          });
       });
     }
   }
